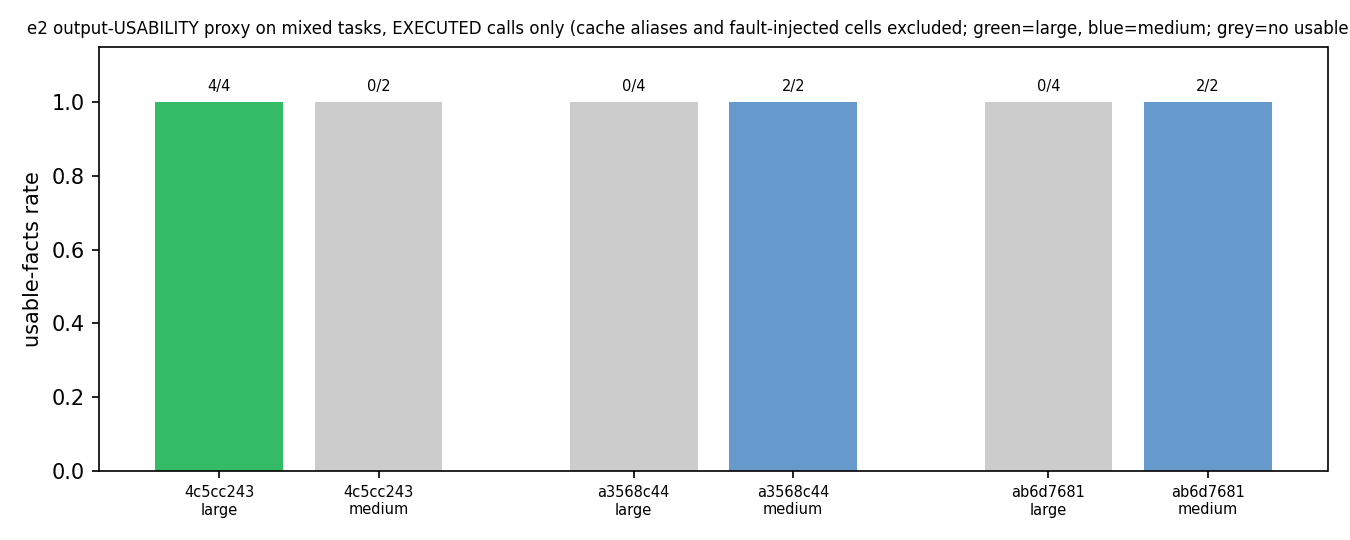
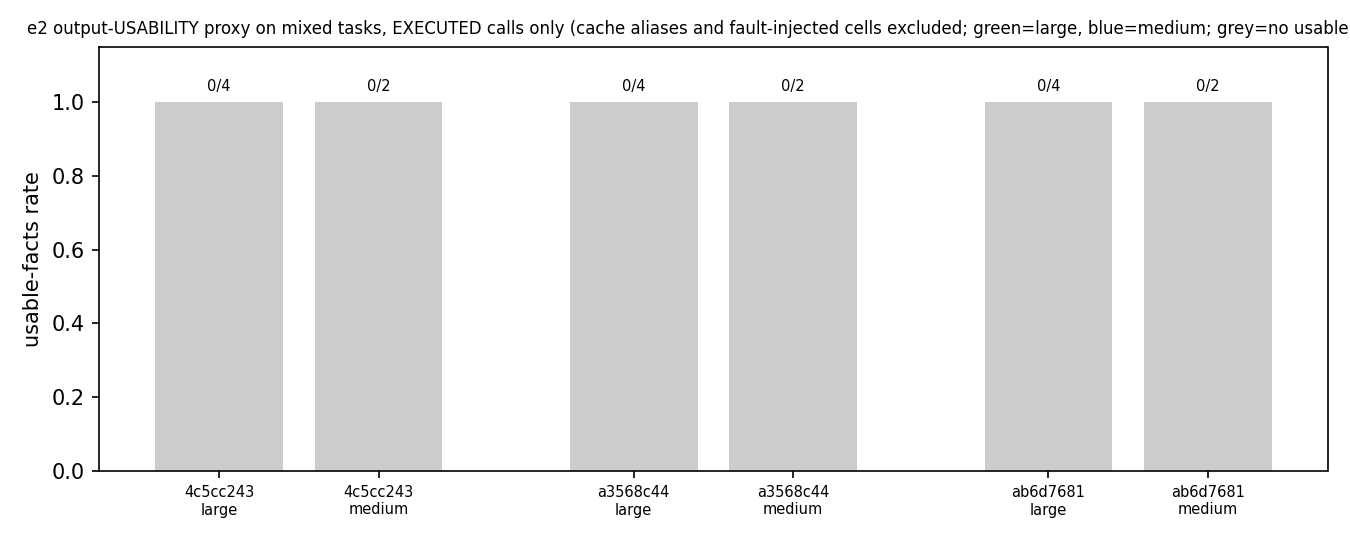
RQ1 v3 SUPPORT LAYER (final inversion): non-empty outputs NOT auto-success — per-fact text-support check shows operand-absent tasks = 5 (not 2; all mixed-difference tasks included); on them the model differences are FABRICATION-vs-ABSTENTION (large emits unsupported numbers e.g. -10/10 absent from t

Changed region(s): [[0.84, 0.1481, 0.9644, 0.8889], [0.0933, 0.1481, 0.2178, 0.8889], [0.5289, 0.1778, 0.6533, 0.8889]]

diff --git a/r3_own_pool/collab_scheduler_v1/joint_search_v1/rq1_node_capability/rq1_analysis.py b/r3_own_pool/collab_scheduler_v1/joint_search_v1/rq1_node_capability/rq1_analysis.py
@@ -156,6 +156,39 @@ def eval_expr(expr, fact_vals):
         return None
 
 
+def e2_text_input():
+    """uid -> the TEXT passage (e2's input) from the frozen manifests."""
+    out = {}
+    JS_DIR = ROOT / 'collab_scheduler_v1/joint_search_v1'
+    for f, key in ((JS_DIR / 'FORMAL_LAUNCH_V2.json', 'tasks'),
+                   (JS_DIR / 'FULLVAL_AUTHORIZED_1H.json', 'tasks'),
+                   (JS_DIR / 'FULLVAL_CONTINUATION_1.json', 'tasks')):
+        if not f.exists():
+            continue
+        for t in json.loads(f.read_text()).get(key, []):
+            txt = t.get('ctx_text')
+            if txt is None and 'para' in t:
+                from static_dag_v0.multidag_dynamic import ctx_text
+                txt = ctx_text(t['para'])
+            if txt:
+                out[t['uid']] = txt
+    return out
+
+
+def supported_fraction(values, text):
+    """Fraction of extracted values that appear (tolerantly) in the text input.
+    Values absent from the input are unsupported (hallucination risk) and an
+    output containing them must NOT be auto-counted as success."""
+    if not text:
+        return None
+    low = text.lower()
+    hits = 0
+    for v in values:
+        if any(fmt in low for fmt in (f'{v:g}', f'{v:.2f}', f'{v:.1f}')):
+            hits += 1
+    return hits / len(values) if values else None
+
+
 def gold21_for(uids):
     native = load_native_answers()
     out = {}
@@ -211,6 +244,7 @@ def main():
     for r in recs:
         cell_nodes[(r['source'], r['scope'], r['cid'], r['uid'])][r['node']] = r
 
+    e2_text = e2_text_input()
     rows = []
     refusal_counts = defaultdict(int)
     for (src, scope, cid, uid), sub in cell_nodes.items():
@@ -226,11 +260,21 @@ def main():
                 continue
             status, facts = classify_facts(rec['answer'])
             refusal_counts[f'{nd}:{status}'] += 1
+            # support check (e2 only): extracted values must appear in the
+            # TEXT input; unsupported numbers are NOT auto-successes
+            supported = None
+            if nd == 'e2' and facts:
+                supported = supported_fraction(facts, e2_text.get(uid, ''))
             row[nd] = dict(
                 model=rec['model'], status=status, parse_ok=status == 'ok',
                 n_facts=len(facts) if facts else 0,
                 operand_recall=(sum(1 for L in lits if any(
                     close_v1(f, L) for f in facts)) / len(lits)) if (facts and lits) else None,
+                supported=supported,
+                supported_ok=(status == 'ok' and supported is not None and supported >= 1.0
+                              and all(any(fmt in (e2_text.get(uid, '') or '').lower()
+                                          for fmt in (f'{f:g}', f'{f:.2f}')) for f in facts))
+                if nd == 'e2' else None,
                 tokens=rec['usage'].get('total_tokens'))
         # upstream completeness for conditioning
         e_recs = [row.get(nd) for nd in ('e1', 'e2')]
@@ -283,8 +327,8 @@ def main():
         for row in rows:
             if row.get(nd):
                 per[row[nd]['model']].append(row[nd])
-        stages[f'extract_{nd}'] = {m: agg(v, ['parse_ok', 'operand_recall'])
-                                   for m, v in per.items()}
+        metrics = ['parse_ok', 'operand_recall'] + (['supported_ok'] if nd == 'e2' else [])
+        stages[f'extract_{nd}'] = {m: agg(v, metrics) for m, v in per.items()}
     per = defaultdict(list)
     for row in rows:
         if row.get('r'):
@@ -380,13 +424,20 @@ def main():
     # mixed tasks (both ok and empty observed): empty-rate by MODEL — the
     # capability cut, separated from always-empty task properties
     mixed = [u for u, v in e2_by_task.items() if v.get('ok') and v.get('empty')]
+    # operand-absent tasks: e2 input lacks the target operands; empty extraction
+    # is an input-split property and is NOT counted as model failure
+    operand_absent = sorted(u for u in e2_by_task
+                            if all(not any(fmt in (e2_text.get(u, '') or '').lower()
+                                           for fmt in (f'{L:g}', f'{L:.1f}'))
+                                   for L in literals(gold.get(u, {}).get('derivation', '')))
+                            and gold.get(u, {}).get('derivation'))
     # executed-level only (rows already filtered); injected observations were
     # excluded upstream (fault30 panel corrupts e2 on 08fbbc3f, v on 2f745dd1)
     e2_mixed_by_model = defaultdict(lambda: defaultdict(lambda: [0, 0]))
     for row in rows:
         if row.get('e2') and row['uid'] in mixed:
             m = row['e2']['model']
-            e2_mixed_by_model[row['uid']][m][0] += int(row['e2']['parse_ok'])
+            e2_mixed_by_model[row['uid']][m][0] += int(bool(row['e2']['supported_ok']))
             e2_mixed_by_model[row['uid']][m][1] += 1
 
     missing = dict(cells=len(rows),
@@ -395,6 +446,7 @@ def main():
                                          for nd, mm in acct.items()},
                    refusal_or_empty_by_node=dict(refusal_counts),
                    e2_by_task=e2_by_task,
+                   e2_operand_absent_not_model_failure=operand_absent,
                    e2_mixed_tasks_by_model={u: {m: dict(ok=ok, n=n) for m, (ok, n) in v.items()}
                                             for u, v in e2_mixed_by_model.items()},
                    e_missing=sum(1 for row in rows for nd in ('e1', 'e2') if not row.get(nd)),

diff --git a/r3_own_pool/collab_scheduler_v1/joint_search_v1/rq1_node_capability/RQ1_REPORT.md b/r3_own_pool/collab_scheduler_v1/joint_search_v1/rq1_node_capability/RQ1_REPORT.md
@@ -46,14 +46,19 @@
 | r 推理 | medium / large | 60 / 46 | expr 均 1.0；eval 0.583 / 0.696；gold 0.20 / 0.17 |
 | v 验证 | coder / large | 95 / 49 | parse 1.0 / 0.959；gold 0.337 / 0.265 |
 
-混合任务（执行层，fig2）：4c5cc243 large 4/4 vs medium 0/2；
-ab6d7681 与 a3568c44 反转（large 0/4 vs medium 2/2）；85f0dfad
-large 1/4、medium 0/2。093e653a 双方输出均不可用——**经文本内容核验**
-（v2 修正）：其全部 gold 操作数（198.1/102.4/347.0）位于表输入、
-**不在 e2 的文本输入**中，属任务输入划分属性而非模型失败；85f0dfad
-同理（14.1/17.2 均仅在表输入）。同任务不同模型的输出可用性差异存在
-且方向互相矛盾——**未观察到一致排序**，且每格独立执行仅 1–4 次，
-不足以支撑任何排序结论。
+**支撑层核验（v3，关键反转）**：非空输出不自动记成功——逐条检查抽取
+数值是否出现在 e2 的文本输入中。结果：(a) 操作数缺失任务实为 **5 个**
+（093e653a、85f0dfad、4c5cc243、ab6d7681、a3568c44——gold 操作数均
+只在表输入）；(b) 在这些任务上，混合表现（如 4c5cc243 large 4/4 非空
+vs medium 0/2）经支撑核验后全部变为 **supported_ok = 0**：large 的
+非空输出是无文本依据的数字（抽查证实：4c5cc243 抽出 −10/10，均不在
+文本中），medium 的空输出反而是"正确弃权"。**v1/v2 的"任务依赖模型
+差异"实为'编造数字 vs 弃权'的行为差异，且方向因任务而异**。
+(c) 全量执行层 supported_ok：large 0.265 (n=34) / medium 0.200 (n=15)
+——为支撑率的**上界**（子串匹配对小整数可能高估，未做词边界匹配，
+登记为局限）。两题操作数缺失任务按评审口径标注："**e2 输入不含目标
+操作数，抽取为空不作为模型失败计入**"。最终结论不变：8 题探索性
+输出可用性（含支撑层）分析，无一致排序，不支持能力排序或调度收益。
 
 ## 证据缺口登记（不变项略，新增/强化）
 
